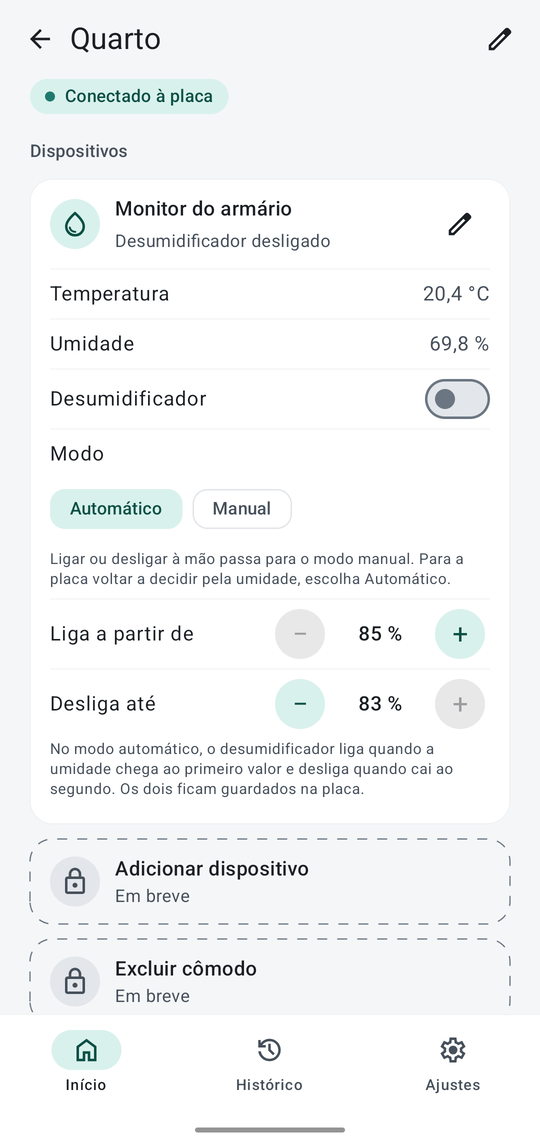
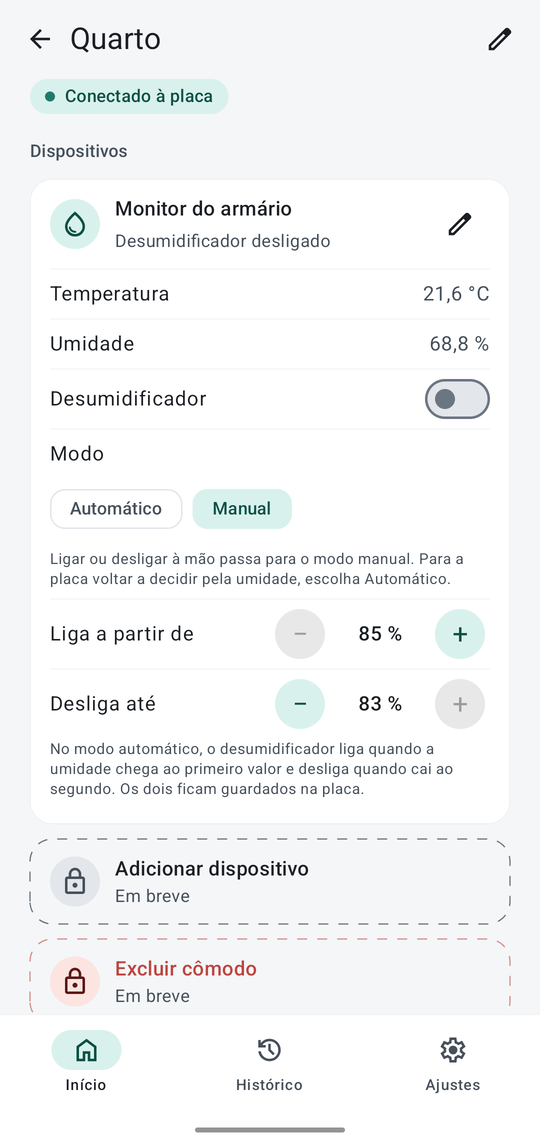
feat: the locked "delete room" card is a faded red, so it is not taken for the ones that add (#37)
The places that only add something (a device, a room, the cloud, a VPN) stay grey and dashed.
The one that takes something away is now a faded red: the dashed line, the lock and the title,
less loud than the red of a warning because it does not work yet. The color of the line and of
the title are pure functions of the palette, so they are tested for both themes.

Documentation: README of the app and new photos of the rooms.

diff --git a/android/app/src/main/kotlin/io/github/gustavommcv/ciscsmarthome/ui/components/LockedCard.kt b/android/app/src/main/kotlin/io/github/gustavommcv/ciscsmarthome/ui/components/LockedCard.kt
@@ -6,26 +6,43 @@ import androidx.compose.foundation.layout.Column
 import androidx.compose.foundation.layout.Row
 import androidx.compose.foundation.layout.fillMaxWidth
 import androidx.compose.foundation.layout.padding
+import androidx.compose.material3.ColorScheme
 import androidx.compose.material3.MaterialTheme
 import androidx.compose.material3.Text
 import androidx.compose.runtime.Composable
 import androidx.compose.ui.Alignment
 import androidx.compose.ui.Modifier
+import androidx.compose.ui.graphics.Color
 import androidx.compose.ui.res.stringResource
 import io.github.gustavommcv.ciscsmarthome.R
 import io.github.gustavommcv.ciscsmarthome.ui.theme.Spacing
 
-/** Something the app will do and does not yet: shown, so it is clear where it goes, and drawn as an empty place, so it is clear it does not work. */
+/** How faded the red line of a locked place that takes something away is: it does not work yet, so it is not as loud as the red of a warning. */
+private const val FADED_RED = 0.5f
+
+/** The title of a faded red place is red too, a little less faded, so it can be read. */
+private const val FADED_TEXT = 0.85f
+
+/** The color of the dashed line of a locked place: the grey of the palette, or, for [Tone.Alert], the red of the palette, faded. */
+internal fun Tone.lockedLine(scheme: ColorScheme): Color = if (this == Tone.Alert) scheme.error.copy(alpha = FADED_RED) else scheme.outline
+
+/** The color of the title of a locked place: red for [Tone.Alert], less faded than its line, so it can be read; the color of the text for the others. */
+internal fun Tone.lockedTitle(scheme: ColorScheme): Color = if (this == Tone.Alert) scheme.error.copy(alpha = FADED_TEXT) else Color.Unspecified
+
+/**
+ * Something the app will do and does not yet: shown, so it is clear where it goes, and drawn as an empty place, so it is clear it does not work. What only adds (a room, a
+ * device) is grey; what takes something away (delete a room) is [Tone.Alert], a faded red, so it is not taken for the ones that add.
+ */
 @Composable
-internal fun LockedCard(@StringRes title: Int, modifier: Modifier = Modifier) {
+internal fun LockedCard(@StringRes title: Int, modifier: Modifier = Modifier, tone: Tone = Tone.Neutral) {
   Row(
-    modifier = modifier.fillMaxWidth().dashedBorder(MaterialTheme.colorScheme.outline, MaterialTheme.shapes.large).padding(horizontal = Spacing.L, vertical = Spacing.M),
+    modifier = modifier.fillMaxWidth().dashedBorder(tone.lockedLine(MaterialTheme.colorScheme), MaterialTheme.shapes.large).padding(horizontal = Spacing.L, vertical = Spacing.M),
     verticalAlignment = Alignment.CenterVertically,
     horizontalArrangement = Arrangement.spacedBy(Spacing.M),
   ) {
-    IconBadge(R.drawable.ic_lock, Tone.Neutral)
+    IconBadge(R.drawable.ic_lock, tone)
     Column {
-      Text(stringResource(title), style = MaterialTheme.typography.titleMedium)
+      Text(stringResource(title), style = MaterialTheme.typography.titleMedium, color = tone.lockedTitle(MaterialTheme.colorScheme))
       Text(stringResource(R.string.add_soon), style = MaterialTheme.typography.bodyMedium, color = MaterialTheme.colorScheme.onSurfaceVariant)
     }
   }

diff --git a/android/app/src/test/kotlin/io/github/gustavommcv/ciscsmarthome/ui/components/LockedCardTest.kt b/android/app/src/test/kotlin/io/github/gustavommcv/ciscsmarthome/ui/components/LockedCardTest.kt
@@ -1,0 +1,60 @@
+package io.github.gustavommcv.ciscsmarthome.ui.components
+
+import androidx.compose.ui.graphics.Color
+import io.github.gustavommcv.ciscsmarthome.ui.theme.DarkColors
+import io.github.gustavommcv.ciscsmarthome.ui.theme.LightColors
+import org.junit.Assert.assertEquals
+import org.junit.Assert.assertNotEquals
+import org.junit.Assert.assertTrue
+import org.junit.Test
+
+/** The dashed line of what is not there yet: grey for what is only to come, a faded red for what takes something away, so it is not taken for the others. */
+class LockedCardTest {
+  private val schemes = listOf("light" to LightColors, "dark" to DarkColors)
+
+  @Test
+  fun `what is only to come has the grey line of the palette`() {
+    schemes.forEach { (_, scheme) -> assertEquals(scheme.outline, Tone.Neutral.lockedLine(scheme)) }
+  }
+
+  @Test
+  fun `what takes something away has a red line, faded, for it does not work yet`() {
+    schemes.forEach { (name, scheme) ->
+      val line = Tone.Alert.lockedLine(scheme)
+      assertEquals("the red of the $name theme", scheme.error.copy(alpha = line.alpha), line)
+      assertTrue("faded, in the $name theme", line.alpha in 0.2f..0.8f)
+    }
+  }
+
+  @Test
+  fun `the red line is not the grey one`() {
+    schemes.forEach { (name, scheme) -> assertNotEquals(name, Tone.Neutral.lockedLine(scheme), Tone.Alert.lockedLine(scheme)) }
+  }
+
+  @Test
+  fun `the primary tone, which no place uses, keeps the grey line`() {
+    schemes.forEach { (_, scheme) -> assertEquals(scheme.outline, Tone.Primary.lockedLine(scheme)) }
+  }
+
+  @Test
+  fun `the title of a place that takes something away is red too, and can be read`() {
+    schemes.forEach { (name, scheme) ->
+      val title = Tone.Alert.lockedTitle(scheme)
+      assertEquals("the red of the $name theme", scheme.error.copy(alpha = title.alpha), title)
+      assertTrue("less faded than the line, in the $name theme", title.alpha > Tone.Alert.lockedLine(scheme).alpha && title.alpha < 1f)
+    }
+  }
+
+  @Test
+  fun `the title of the other places keeps the color of the text`() {
+    schemes.forEach { (_, scheme) ->
+      assertEquals(Color.Unspecified, Tone.Neutral.lockedTitle(scheme))
+      assertEquals(Color.Unspecified, Tone.Primary.lockedTitle(scheme))
+    }
+  }
+
+  @Test
+  fun `the faded red is still a color, not transparent`() {
+    schemes.forEach { (_, scheme) -> assertNotEquals(Color.Transparent, Tone.Alert.lockedLine(scheme)) }
+  }
+}

diff --git a/android/app/src/main/kotlin/io/github/gustavommcv/ciscsmarthome/ui/home/RoomScreen.kt b/android/app/src/main/kotlin/io/github/gustavommcv/ciscsmarthome/ui/home/RoomScreen.kt
@@ -126,7 +126,7 @@ internal fun RoomScreen(
           ) }
         item { LockedCard(R.string.device_add) }
         // Shown, so it is clear it is to come; a room cannot be taken out of the board's house from the phone.
-        item { LockedCard(R.string.room_delete) }
+        item { LockedCard(R.string.room_delete, tone = Tone.Alert) }
       }
     }
   }

diff --git a/android/README.md b/android/README.md
@@ -254,7 +254,7 @@ Para pôr um ícone novo: baixe `symbols/android/<nome>/materialsymbolsoutlined/
 
 Um **lápis** no cabeçalho do cômodo e no cartão de cada dispositivo abre uma janela para **renomear**: o campo vem com o nome de agora, todo selecionado, e há **Salvar**, **Cancelar** e, quando o usuário já deu um nome, **Voltar ao nome padrão**. As leituras ("Temperatura", "Nível de gás") não se renomeiam. A [decisão 0009](../docs/decisoes/0009-nomes-dados-pelo-usuario.md) conta o porquê.
 
-**O cômodo também tem o seu ícone.** A janela do cômodo ("Editar o cômodo") mostra, sob o nome, os **13 ícones** que se pode escolher (casa, cozinha, quarto, sala, sala de jantar, banheiro, lavanderia, escritório, quarto de criança, entrada, varanda, quintal e garagem), com o escolhido marcado e o nome dele escrito embaixo. Nada muda até **Salvar**. **Voltar ao padrão** tira o nome e o ícone do usuário de uma vez. O ícone de um cômodo que o usuário não escolheu é o padrão: a cozinha é uma cozinha, o quarto uma cama, e um cômodo que o app não conhece é uma casa. **Escolher o ícone que o cômodo já tem por padrão não guarda nada**, e o mesmo vale para o nome: o cômodo continua seguindo o padrão. Abaixo dos dispositivos, o cartão bloqueado **Excluir cômodo, em breve** mostra onde fica essa opção: o app ainda não exclui cômodos.
+**O cômodo também tem o seu ícone.** A janela do cômodo ("Editar o cômodo") mostra, sob o nome, os **13 ícones** que se pode escolher (casa, cozinha, quarto, sala, sala de jantar, banheiro, lavanderia, escritório, quarto de criança, entrada, varanda, quintal e garagem), com o escolhido marcado e o nome dele escrito embaixo. Nada muda até **Salvar**. **Voltar ao padrão** tira o nome e o ícone do usuário de uma vez. O ícone de um cômodo que o usuário não escolheu é o padrão: a cozinha é uma cozinha, o quarto uma cama, e um cômodo que o app não conhece é uma casa. **Escolher o ícone que o cômodo já tem por padrão não guarda nada**, e o mesmo vale para o nome: o cômodo continua seguindo o padrão. Abaixo dos dispositivos, o cartão bloqueado **Excluir cômodo, em breve** mostra onde fica essa opção: o app ainda não exclui cômodos. Ele é de um **vermelho apagado** (a linha tracejada, o ícone e o título), e os cartões bloqueados que só acrescentam algo (adicionar dispositivo, adicionar cômodo, nuvem, VPN) são cinza, para a opção que tira algo não se confundir com as que põem (`LockedCard` com `Tone.Alert`).
 
 | Peça | Onde | O que faz |
 |---|---|---|
